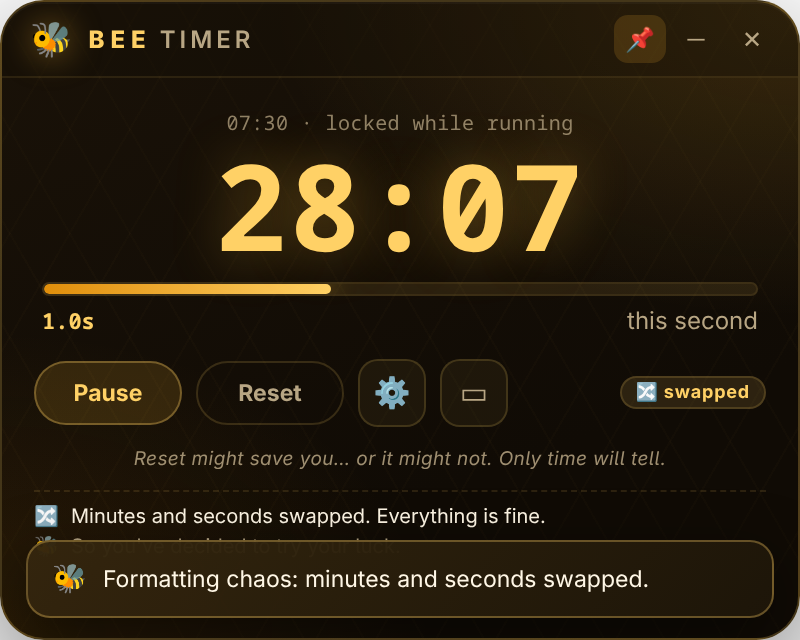
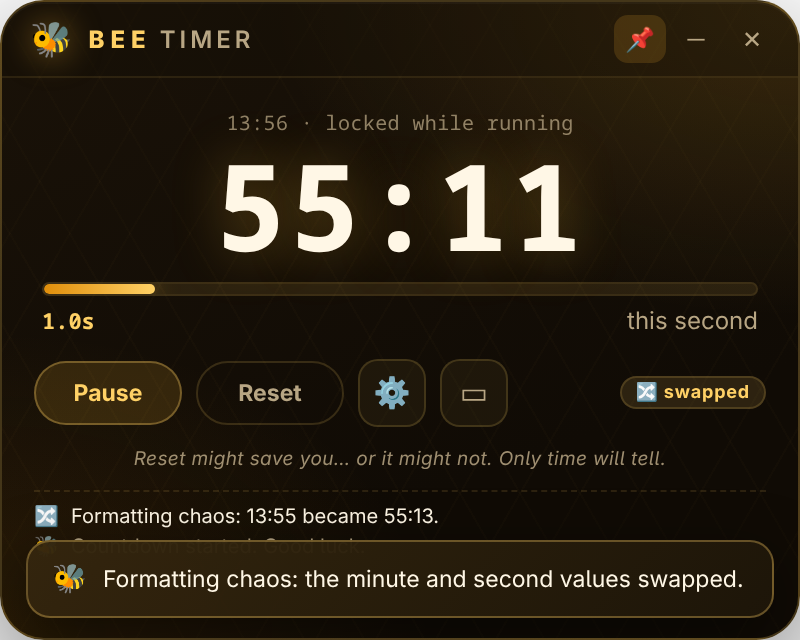
fix: formatting chaos now swaps real minute/second values; v0.1.6
13:56 becomes 56:13 and counts down 56:12, 56:11, ... instead of reshuffling
digits from the true clock. Hours<->minutes swap when an hours display exists;
rounding stays display-only and sticky. Docs/tests/screenshot updated.

diff --git a/src/renderer/engine.js b/src/renderer/engine.js
@@ -461,18 +461,35 @@ export class BeeEngine {
     if (feature.roundNearestMinute) options.push('round');
     if (!options.length) return;
     const kind = options[Math.floor(this.rng() * options.length)];
-    // Sticky until reset (or until another formatting chaos event): it used to
-    // revert after a few ticks, which read as a display glitch.
-    this.formatState = { kind, untilTick: Infinity };
     this.stats.formats += 1;
-    const hourScale = this.remainingMs >= 3_600_000;
-    this.pushLog(
-      '🔀',
-      kind === 'swap'
-        ? (hourScale ? 'Hours and minutes swapped. Everything is fine.' : 'Minutes and seconds swapped. Everything is fine.')
-        : 'Rounded to the nearest minute. Who approved this?',
-    );
-    this.onEffect({ type: 'format', kind });
+
+    if (kind === 'swap') {
+      // A real swap, not a digit reshuffle: the minute and second *values*
+      // change places, so 13:56 becomes 56:13 and then counts down 56:12,
+      // 56:11, ... like a normal clock.
+      const totalSeconds = Math.max(1, Math.ceil(this.remainingMs / 1000));
+      const h = Math.floor(totalSeconds / 3600);
+      const m = Math.floor((totalSeconds % 3600) / 60);
+      const sec = totalSeconds % 60;
+      const swappedSeconds = h > 0
+        ? m * 3600 + h * 60 + sec // swap hours <-> minutes
+        : sec * 60 + m;           // swap minutes <-> seconds
+      const cappedSeconds = Math.min(
+        swappedSeconds,
+        Math.floor(this.maxRemainingMs / 1000),
+      );
+      const before = this.remainingMs;
+      this.remainingMs = Math.max(1000, cappedSeconds * 1000);
+      this.formatState = { kind: null, untilTick: 0 };
+      this.pushLog('🔀', `Formatting chaos: ${formatRemaining(before, null)} became ${formatRemaining(this.remainingMs, null)}.`);
+      this.onEffect({ type: 'format', kind: 'swap', swapped: true });
+      return;
+    }
+
+    // Rounding is display-only and sticky until reset / another formatting event.
+    this.formatState = { kind, untilTick: Infinity };
+    this.pushLog('🔀', 'Rounded to the nearest minute. Who approved this?');
+    this.onEffect({ type: 'format', kind: 'round' });
   }
 
   startRest() {

diff --git a/src/renderer/app.js b/src/renderer/app.js
@@ -23,6 +23,7 @@ const seenLogIds = new Set();
 let compactMode = false;
 let editingDuration = false;
 let swarmThemeTimer = null;
+let swappedChipUntil = 0;
 let swarmOverlayTimer = null;
 
 const els = {};
@@ -573,9 +574,10 @@ function render(snapshot) {
   els.timeDisplay.textContent = snapshot.display;
   els.timeDisplay.classList.toggle('chaos-swap', snapshot.formatKind === 'swap');
   els.timeDisplay.classList.toggle('chaos-round', snapshot.formatKind === 'round');
-  els.formatChip.classList.toggle('hidden', !snapshot.formatKind);
-  if (snapshot.formatKind) {
-    els.formatChip.textContent = snapshot.formatKind === 'swap' ? '🔀 swapped' : '🔀 rounded';
+  const showFormatChip = Boolean(snapshot.formatKind) || Date.now() < swappedChipUntil;
+  els.formatChip.classList.toggle('hidden', !showFormatChip);
+  if (showFormatChip) {
+    els.formatChip.textContent = snapshot.formatKind === 'round' ? '🔀 rounded' : '🔀 swapped';
   }
   els.secondLen.textContent = `${(snapshot.tickLengthMs / 1000).toFixed(1)}s`;
 
@@ -704,6 +706,12 @@ function handleEffect(effect) {
     case 'swarm':
       playSwarm(effect);
       break;
+    case 'format':
+      if (effect.swapped) {
+        swappedChipUntil = Date.now() + 3200;
+        render(latest);
+      }
+      break;
     case 'bees':
       unlockAudio();
       playBuzz(effect.durationMs || 4000);
@@ -739,7 +747,7 @@ function describeEffect(effect) {
     case 'halve': return 'Remaining time cut in half. Finally, some good news.';
     case 'freeze': return `Timer frozen for ${effect.cycles ?? 5} cycles.`;
     case 'format': return effect.kind === 'swap'
-      ? 'Formatting chaos: minutes and seconds swapped.'
+      ? 'Formatting chaos: the minute and second values swapped.'
       : 'Formatting chaos: rounded to the nearest minute.';
     case 'speed': return effect.permanent
       ? `Distorting chaos: time is now permanently ${effect.mult}×.`

diff --git a/src/renderer/features.js b/src/renderer/features.js
@@ -48,7 +48,7 @@ export const FEATURES = [
     key: 'formatChaos',
     icon: '🔀',
     title: 'Formatting Chaos',
-    desc: 'Swaps minutes/seconds or rounds the display. Display only.',
+    desc: 'Swaps the minute/second values for real (13:56 → 56:13) or rounds the display.',
     group: 'core',
   },
   {

diff --git a/README.md b/README.md
@@ -45,7 +45,7 @@ Every feature is independently toggleable and has a per-tick probability you can
 | ✖ Double Time | 1% | **On** | Doubles remaining time (capped at 24h). |
 | ➗ Halve Time | 1% | **On** | Cuts remaining time in half — a welcome mercy. |
 | ❄ Freeze Timer | 5% | **On** | Pauses the countdown for 5 cycles. |
-| 🔀 Formatting Chaos | 5% | **On** | Swaps the two biggest units (hours↔minutes, or minutes↔seconds) or rounds the display. Sticky until reset; display only, never corrupts the real clock. |
+| 🔀 Formatting Chaos | 5% | **On** | Swaps the **actual** minute/second values (13:56 → 56:13, then counts down 56:12, 56:11…), or rounds the display (display-only, sticky until reset). |
 | 🌀 Speed Distortion | 10% | **On** | A tick becomes 0.5× or 2× as long, for a configurable number of ticks (default 4). |
 | ♾ Distorting Chaos | 1% | **On** | Makes speed distortion permanent and compounding (2× → 4× → 8×, or back down with 0.5×). Requires Speed Distortion; while on, its own chance replaces Speed Distortion's chance/duration. |
 | 💬 Supportive BEE Messages | 1% | **On** | A kind, encouraging message from the hive (no puns). Desktop notification plus in-app toast. |
@@ -104,7 +104,7 @@ curl -fsSL https://raw.githubusercontent.com/nu-code-dev/bee-timer/main/install.
 - optional interactive prompts, defaulting to **No** (and reading from `/dev/tty`, so `curl | bash` still works): install `mako` on Arch when no notification daemon is running (other distros get package-manager advice), and append BEE Timer window rules to your Hyprland config (Lua `hyprland.lua` when present, legacy `hyprland.conf` otherwise). The rule edit backs the file up, skips duplicate rules, and runs `hyprctl reload` when available.
 - unattended installs: `BEE_TIMER_YES=1` accepts both prompts; with no TTY the answers stay No
 - uninstall with: `curl -fsSL https://raw.githubusercontent.com/nu-code-dev/bee-timer/main/install.sh | bash -s -- --uninstall` — this also removes the BEE Timer rule block the installer added to your Hyprland config, leaving the rest of the file and your app config untouched
-- `BEE_TIMER_PREFIX=/usr/local` with `sudo` for a system-wide install, `BEE_TIMER_VERSION=0.1.5` to pin a release
+- `BEE_TIMER_PREFIX=/usr/local` with `sudo` for a system-wide install, `BEE_TIMER_VERSION=0.1.6` to pin a release
 - completely optional — the AUR package, AppImage, `.deb`, and source builds below all still work
 - the same setup notes (notification-daemon status, copyable Hyprland snippets, installed paths, uninstall command) are inside the app under **Settings → Setup & integration**
 
@@ -123,21 +123,21 @@ That installs the release AppImage to `/opt/bee-timer/` behind a `/usr/bin/bee-t
 
 ### Direct download (Linux)
 
-Grab `bee-timer-0.1.5-x86_64.AppImage` or `bee-timer-0.1.5-amd64.deb` from [Releases](https://github.com/nu-code-dev/bee-timer/releases) (tag `v0.1.5`):
+Grab `bee-timer-0.1.6-x86_64.AppImage` or `bee-timer-0.1.6-amd64.deb` from [Releases](https://github.com/nu-code-dev/bee-timer/releases) (tag `v0.1.6`):
 
 ```bash
 # AppImage
-chmod +x bee-timer-0.1.5-x86_64.AppImage
-./bee-timer-0.1.5-x86_64.AppImage
+chmod +x bee-timer-0.1.6-x86_64.AppImage
+./bee-timer-0.1.6-x86_64.AppImage
 
 # Debian / Ubuntu
-sudo apt install ./bee-timer-0.1.5-amd64.deb
+sudo apt install ./bee-timer-0.1.6-amd64.deb
 ```
 
 <a id="windows"></a>
 ### Windows
 
-Download the [`bee-timer-0.1.5-x64.exe`](https://github.com/nu-code-dev/bee-timer/releases/tag/v0.1.3) NSIS installer from [Releases](https://github.com/nu-code-dev/bee-timer/releases). It is built by GitHub Actions on every release and is **unsigned**:
+Download the [`bee-timer-0.1.6-x64.exe`](https://github.com/nu-code-dev/bee-timer/releases/tag/v0.1.3) NSIS installer from [Releases](https://github.com/nu-code-dev/bee-timer/releases). It is built by GitHub Actions on every release and is **unsigned**:
 
 - SmartScreen will show *"Windows protected your PC"* → click **More info** → **Run anyway**.
 - Windows builds are **x64 only** and are CI-produced; they are not smoke-tested on real Windows hardware by the maintainer yet.
@@ -145,7 +145,7 @@ Download the [`bee-timer-0.1.5-x64.exe`](https://github.com/nu-code-dev/bee-time
 <a id="macos"></a>
 ### macOS
 
-Download the [`bee-timer-0.1.5-arm64.dmg`](https://github.com/nu-code-dev/bee-timer/releases/tag/v0.1.3) disk image from [Releases](https://github.com/nu-code-dev/bee-timer/releases). It is **Apple Silicon only** (the CI runner is `macos-latest`/arm64), unsigned and not notarized:
+Download the [`bee-timer-0.1.6-arm64.dmg`](https://github.com/nu-code-dev/bee-timer/releases/tag/v0.1.3) disk image from [Releases](https://github.com/nu-code-dev/bee-timer/releases). It is **Apple Silicon only** (the CI runner is `macos-latest`/arm64), unsigned and not notarized:
 
 - Gatekeeper will block the app → right-click the app → **Open**, or allow it under **System Settings → Privacy & Security**.
 - Intel Macs would need a separate build (not configured in CI yet); building from source below also works.
@@ -243,7 +243,7 @@ npm run dist:win     # Windows installer — run on Windows or CI
 npm run dist:mac     # macOS .dmg — run on macOS or CI
 ```
 
-Linux artifact names are pinned by `build.artifactName = "bee-timer-${version}-${arch}.${ext}"`: `dist/bee-timer-0.1.5-x86_64.AppImage` (AppImage) and `dist/bee-timer-0.1.5-amd64.deb` (Debian package). Cross-platform builds are out of scope locally — the [release workflow](.github/workflows/release.yml) builds each OS on its own runner and attaches the artifacts to a GitHub Release.
+Linux artifact names are pinned by `build.artifactName = "bee-timer-${version}-${arch}.${ext}"`: `dist/bee-timer-0.1.6-x86_64.AppImage` (AppImage) and `dist/bee-timer-0.1.6-amd64.deb` (Debian package). Cross-platform builds are out of scope locally — the [release workflow](.github/workflows/release.yml) builds each OS on its own runner and attaches the artifacts to a GitHub Release.
 
 ## Testing
 

diff --git a/docs/CONFIG.md b/docs/CONFIG.md
@@ -42,7 +42,7 @@ Every feature object has `enabled` (boolean) and `chancePct` (number, 0–100, t
 | `doubleTime` | `true` | `1` | — | Doubles remaining time, capped at 24h. |
 | `halveTime` | `true` | `1` | — | Cuts remaining time in half (never below 1 second until the timer ends). A mercy, not a curse. |
 | `freeze` | `true` | `5` | `cycles`: `5` (1–60) | Pauses the countdown for N ticks. |
-| `formatChaos` | `true` | `5` | `swapMinSec`: `true`; `roundNearestMinute`: `true`; `durationTicks`: legacy/unused | Display-only, **sticky** chaos: swaps the two biggest units (hours↔minutes when the clock has hours, otherwise minutes↔seconds), or rounds to the nearest minute. It now stays applied until reset or another formatting event, and never changes the real remaining time. |
+| `formatChaos` | `true` | `5` | `swapMinSec`: `true`; `roundNearestMinute`: `true`; `durationTicks`: legacy/unused | **Swap is a real time mutation:** the minute and second values trade places (13:56 → 56:13) and the clock then counts down normally (56:12, 56:11…). With an hours display it swaps hours↔minutes instead. Rounding is display-only and sticky until reset. |
 | `speedDistortion` | `true` | `10` | `multipliers`: `[0.5, 2]` (only 0.5 and 2 are valid); `durationTicks`: `4` (1–60, editable in Settings) | Scales the real length of the next N ticks. 0.5× = 2s real per game second; 2× = 0.5s real. |
 | `distortingChaos` | `true` | `1` | — | Only active while `speedDistortion.enabled` is true (the sanitizer forces it off otherwise). Makes speed distortion **permanent and compounding**: each trigger multiplies the current speed (1× → 2× → 4×, or back down with 0.5×). While enabled, `speedDistortion`'s chance and `durationTicks` are ignored — this chance is used instead, and the speed never expires. |
 | `windowChaos` | `false` | `1` | `marginPx`: `40` (0–400) | Randomly moves the window within the current monitor's work area (uses `hyprctl eval` on Hyprland when native moves are ignored). Hidden under "Advanced · don't touch". |

diff --git a/docs/ARCHITECTURE.md b/docs/ARCHITECTURE.md
@@ -108,7 +108,7 @@ Each roll is `rng() * 100 < chancePct` and is skipped entirely when `enabled` is
 ### Key invariants
 
 - **24-hour cap.** `maxRemainingMs` (default 24h) clamps every addition and doubling via `Math.min`. It is itself at least `config.durationMs`.
-- **Display-only formatting chaos.** `formatRemaining(ms, kind)` is pure; `swap` prints seconds where minutes go (and vice versa), `round` rounds to the nearest minute. The real `remainingMs` is never touched. `snapshot()` exposes both `display` (chaotic) and `rawDisplay` (truth) for tests/debugging.
+- **Formatting chaos.** `swap` is a *real* mutation: the minute/second values trade places (`13:56 → 56:13`) and the clock counts down normally afterwards (hours↔minutes when an hours display is present). `round` is display-only and sticky until reset. `formatRemaining(ms, 'round')` is pure; `snapshot()` exposes both `display` (chaotic) and `rawDisplay` (truth) for tests/debugging.
 - **Speed distortion scales the real tick.** `speedMult` is 0.5 or 2 while `tick < speedState.untilTick`; `nextTickDelay()` = `round(1000 * mult)`. Distorting Chaos sets `untilTick = Infinity` and compounds the multiplier on each trigger. The displayed seconds counter still advances by one per tick.
 - **Freeze** = N canceled countdowns; **rest** = a real-time pause (default 3 min) that can be skipped; after either, rest has a cooldown (default 5 min) during which it cannot retrigger.
 - **Swarms** are resolved before rest mode: rare swarms apply ×5 of every good/bad effect, common swarms ×1. Blessed/happy swarms halve the remaining time and clear freeze/format/speed; demonic/angry swarms add time, freeze, scramble formatting and distort speed. The rare variants drive a full-screen themed overlay (or background tint + toast in compact mode).

diff --git a/docs/HYPRLAND.md b/docs/HYPRLAND.md
@@ -26,7 +26,7 @@ So if you are on a normal Hyprland session with XWayland enabled (the default), 
 ```bash
 BEE_TIMER_OZONE=wayland bee-timer
 # or for the AppImage:
-BEE_TIMER_OZONE=wayland ./bee-timer-0.1.5-x86_64.AppImage
+BEE_TIMER_OZONE=wayland ./bee-timer-0.1.6-x86_64.AppImage
 ```
 
 Any value other than `wayland` is treated as X11. The AUR wrapper passes `BEE_TIMER_OZONE` through, so you can export it from your shell or set it in the `.desktop` `Exec=` line. XWayland must be enabled in your Hyprland config:
